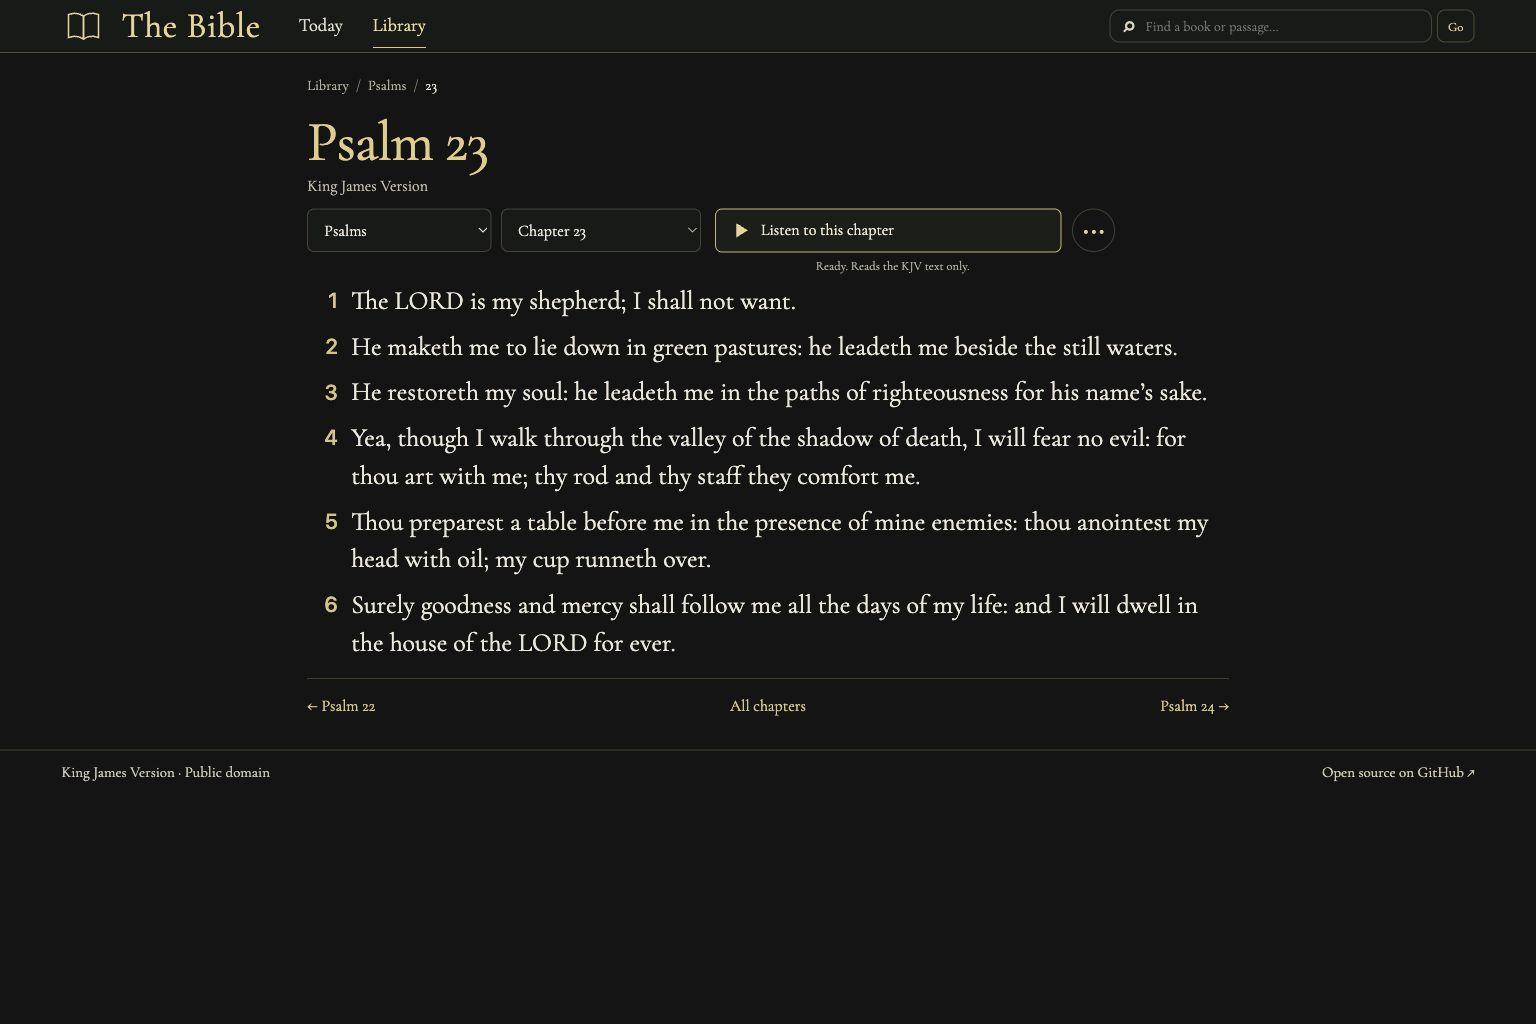
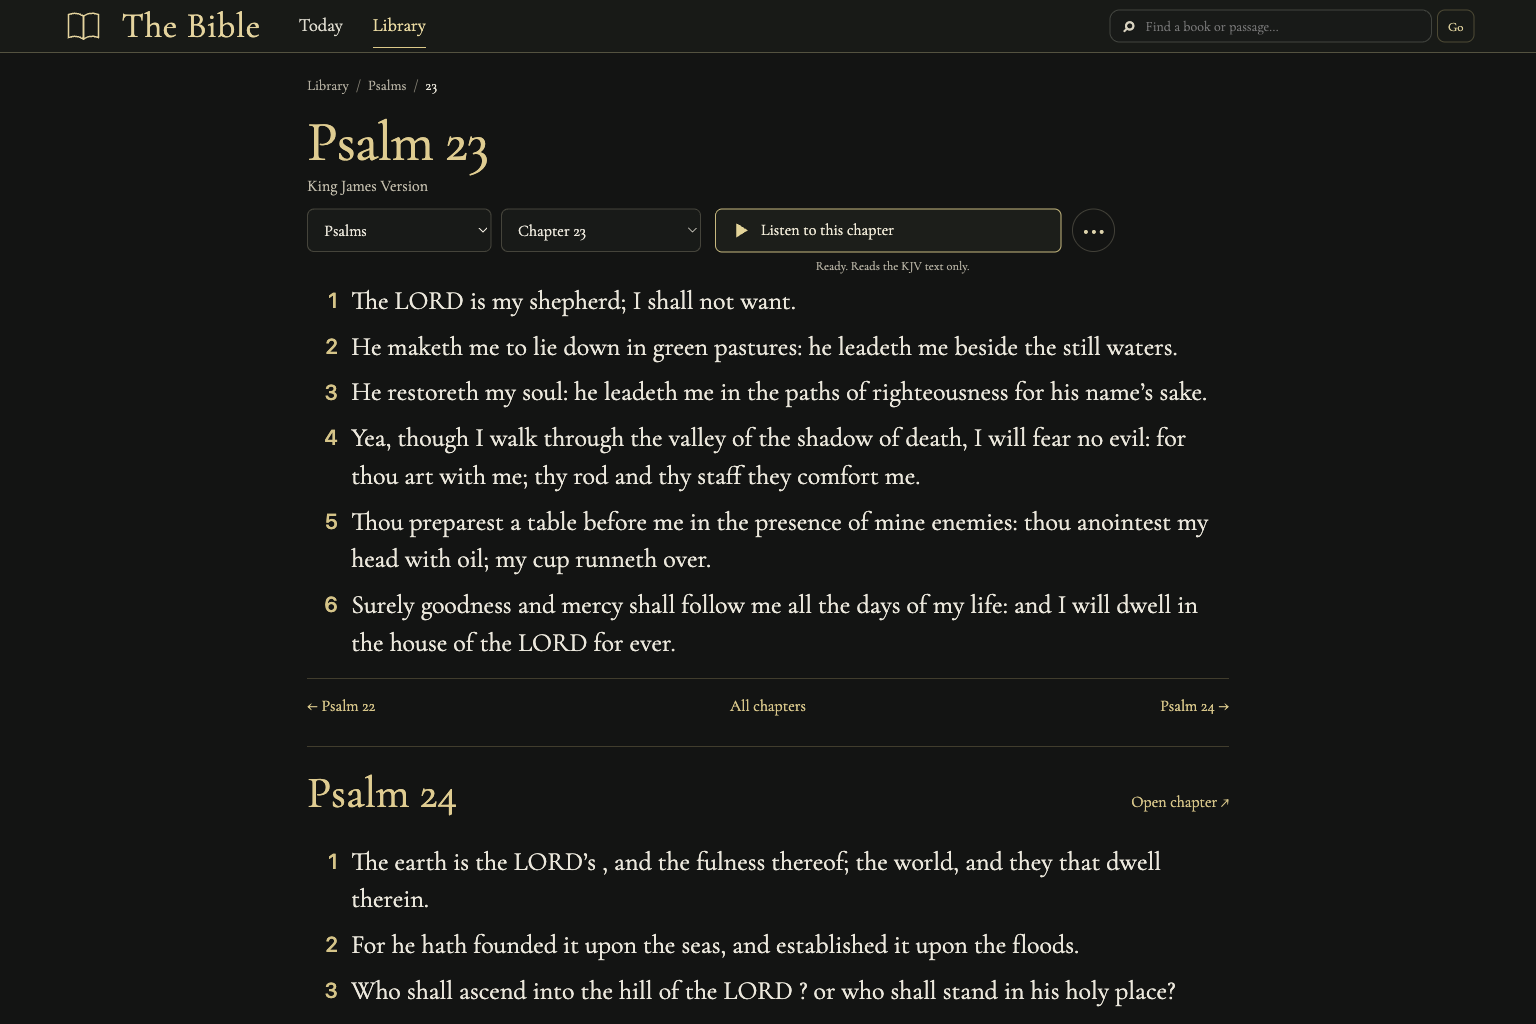
Continue short readings into following Scripture

diff --git a/web/reader.css b/web/reader.css
@@ -243,6 +243,14 @@ main.wrap:has(.reader-page) {
 .reader-pagination .reader-all-chapters { justify-self: center; }
 .reader-full-chapter { margin: 1.8rem 0 0; font: 1.05rem/1.5 'Bible Display', Georgia, serif; }
 
+.reader-continuation { margin-top: 1.8rem; }
+.reader-continuation-heading { display:flex;align-items:baseline;justify-content:space-between;flex-wrap:wrap;gap:.5rem 1rem;margin-bottom:1.1rem;padding-top:1.3rem;border-top:1px solid #b59a624d; }
+.reader-continuation-heading h2 { margin:0;color:#edca87;font:400 clamp(2rem,3vw,2.75rem)/1.15 'Bible Display',Georgia,serif; }
+.reader-continuation-heading a,.reader-continue-next { font:1rem/1.5 'Bible Display',Georgia,serif; }
+.reader-continuation-heading a { display:inline-flex;align-items:center;min-height:44px; }
+.reader-continue-next { margin:1.5rem 0 0;padding-top:1rem;border-top:1px solid #b59a624d; }
+.reader-continue-next a { display:inline-flex;align-items:center;min-height:44px; }
+
 @media (max-width: 700px) {
   main.wrap:has(.reader-page) { width: calc(100% - 36px); }
   .reader-page { padding-top: 1.15rem; }

diff --git a/web/experience.js b/web/experience.js
@@ -28,7 +28,10 @@ export function initExperience(root = document) {
     const status = controls.querySelector('[data-audio-status]');
     const audioLabel = play?.querySelector('[data-audio-label]');
     const playbackSettings = controls.querySelector('.book-playback-settings');
-    const nodes = [...root.querySelectorAll('.scripture .v')];
+    // Short readers also show following chapters. The contextual player reads
+    // only the selected chapter/range, never the continuation or explanations.
+    const primaryScripture = root.querySelector('[data-reader-primary-scripture]');
+    const nodes = [...(primaryScripture || root).querySelectorAll(primaryScripture ? '.v' : '.scripture .v')];
     let scripture;
     if (bookMode) {
       try {

diff --git a/src/reader.rs b/src/reader.rs
@@ -154,6 +154,75 @@ fn pagination(book: usize, chapter: usize, client: bool) -> String {
     html
 }
 
+fn following_chapter(book: usize, chapter: usize) -> Option<(usize, usize)> {
+    if chapter < bible().books[book].len() {
+        Some((book, chapter + 1))
+    } else if book + 1 < NAMES.len() {
+        Some((book + 1, 1))
+    } else {
+        None
+    }
+}
+
+/// Keep short readings flowing into real, sequential Scripture. Each added
+/// chapter has an explicit heading and its own route; audio stays with the
+/// selected passage. Bound the initial page instead of rendering an entire book.
+fn continuation(
+    book: usize,
+    chapter: usize,
+    next_verse: usize,
+    visible_verses: usize,
+    client: bool,
+) -> String {
+    const MIN_READING_VERSES: usize = 16;
+    let mut count = visible_verses;
+    let mut cursor = if next_verse <= bible().books[book][chapter - 1].len() {
+        Some((book, chapter, next_verse))
+    } else {
+        following_chapter(book, chapter).map(|(b, ch)| (b, ch, 1))
+    };
+    let mut html = String::new();
+    let mut added = 0;
+    while count < MIN_READING_VERSES && added < 3 {
+        let Some((b, ch, start)) = cursor else { break };
+        let text = &bible().books[b][ch - 1];
+        let title = chapter_title(b, ch);
+        let label = if start > 1 {
+            format!("{title}:{start}–{}", text.len())
+        } else {
+            title.clone()
+        };
+        let href = route_path(&format!("/book/{}/{ch}", slug(b)), client);
+        let heading_id = format!("continued-{b}-{ch}");
+        html.push_str(&format!(
+            "<section class=\"reader-continuation\" data-continuation-book=\"{b}\" data-continuation-chapter=\"{ch}\" aria-labelledby=\"{heading_id}\"><div class=\"reader-continuation-heading\"><h2 id=\"{heading_id}\">{}</h2><a href=\"{}\" aria-label=\"Open {}\">Open chapter ↗</a></div><div class=\"scripture reader-scripture\" role=\"group\" aria-label=\"{} Scripture\">",
+            esc(&label), esc(&href), esc(&title), esc(&label)
+        ));
+        for (index, verse) in text.iter().enumerate().skip(start - 1) {
+            let number = index + 1;
+            html.push_str(&format!(
+                "<p class=\"v\" id=\"continued-{b}-{ch}-v{number}\" data-reference=\"{} {ch}\" data-verse=\"{number}\"><sup>{number}</sup><span class=\"verse-text\">{}</span></p>",
+                esc(NAMES[b]), esc(verse)
+            ));
+        }
+        html.push_str("</div></section>");
+        count += text.len() - start + 1;
+        added += 1;
+        cursor = following_chapter(b, ch).map(|(b, ch)| (b, ch, 1));
+    }
+    if added > 0 {
+        if let Some((b, ch, _)) = cursor {
+            let href = route_path(&format!("/book/{}/{ch}", slug(b)), client);
+            html.push_str(&format!(
+                "<p class=\"reader-continue-next\"><a href=\"{}\">Continue with {} →</a></p>",
+                esc(&href),
+                esc(&chapter_title(b, ch))
+            ));
+        }
+    }
+    html
+}
+
 /// Render a complete chapter, keeping each verse addressable for highlighting,
 /// speech playback, and direct links such as `#v3`.
 pub(super) fn chapter_content(
@@ -165,7 +234,7 @@ pub(super) fn chapter_content(
     let mut html = reader_open(book, chapter, client);
     let reference = format!("{} {chapter}", NAMES[book]);
     html.push_str(&listen_controls(&reference, "chapter"));
-    html.push_str("</div><div class=\"scripture reader-scripture\" role=\"group\" aria-label=\"Scripture text\">");
+    html.push_str("</div><div class=\"scripture reader-scripture\" data-reader-primary-scripture role=\"group\" aria-label=\"Scripture text\">");
     for (index, text) in bible().books[book][chapter - 1].iter().enumerate() {
         let number = index + 1;
         let class = if highlighted.is_some_and(|(start, end)| number >= start && number <= end) {
@@ -181,6 +250,14 @@ pub(super) fn chapter_content(
     }
     html.push_str("</div>");
     html.push_str(&pagination(book, chapter, client));
+    let verse_count = bible().books[book][chapter - 1].len();
+    html.push_str(&continuation(
+        book,
+        chapter,
+        verse_count + 1,
+        verse_count,
+        client,
+    ));
     html.push_str("</section>");
     html
 }
@@ -204,7 +281,7 @@ pub(super) fn passage_content(reference: &Ref, url: &str, client: bool) -> Strin
     html.push_str(&book_selector(book, chapter, client));
     html.push_str("</div>");
     html.push_str(&listen_controls(&label, "passage"));
-    html.push_str("</div><div class=\"scripture reader-scripture\" role=\"group\" aria-label=\"Scripture text\">");
+    html.push_str("</div><div class=\"scripture reader-scripture\" data-reader-primary-scripture role=\"group\" aria-label=\"Scripture text\">");
     for (number, text) in verses(reference) {
         html.push_str(&format!(
             "<p class=\"v\" id=\"v{number}\" data-reference=\"{}\" data-verse=\"{number}\"><sup>{number}</sup><span class=\"verse-text\">{}</span></p>",
@@ -217,6 +294,85 @@ pub(super) fn passage_content(reference: &Ref, url: &str, client: bool) -> Strin
         "<p class=\"reader-full-chapter\"><a href=\"{}\">Read full chapter →</a></p>",
         esc(url)
     ));
+    let last_verse = reference
+        .v2
+        .or(reference.v1)
+        .unwrap_or(bible().books[book][chapter - 1].len());
+    let first_verse = reference.v1.unwrap_or(1);
+    html.push_str(&continuation(
+        book,
+        chapter,
+        last_verse + 1,
+        last_verse - first_verse + 1,
+        client,
+    ));
     html.push_str("</section>");
     html
+}
+
+#[cfg(test)]
+mod tests {
+    use super::*;
+    use std::collections::HashSet;
+
+    #[test]
+    fn short_psalm_continues_in_canonical_order_without_changing_primary_scripture() {
+        let html = chapter_content(18, 23, None, true);
+        let primary = html
+            .split("data-reader-primary-scripture")
+            .nth(1)
+            .unwrap()
+            .split("</div>")
+            .next()
+            .unwrap();
+        assert_eq!(primary.matches("class=\"v\"").count(), 6);
+        assert!(html.contains("<h2 id=\"continued-18-24\">Psalm 24</h2>"));
+        assert!(html.contains(&esc(&bible().books[18][23][0])));
+        assert!(html.contains("Continue with Psalm 25 →"));
+        assert_eq!(html.matches("data-read-aloud ").count(), 1);
+    }
+
+    #[test]
+    fn focused_range_continues_after_the_range_without_repeating_it() {
+        let reference = Ref {
+            book: 42,
+            ch: 3,
+            v1: Some(16),
+            v2: Some(16),
+        };
+        let html = passage_content(&reference, "#/book/John/3?v=16-16#v16", true);
+        assert!(html.contains("John 3:17–36</h2>"));
+        assert!(html.contains("id=\"continued-42-3-v17\""));
+        assert!(!html.contains("id=\"continued-42-3-v16\""));
+        assert_eq!(html.matches("For God so loved the world").count(), 1);
+    }
+
+    #[test]
+    fn continuation_crosses_book_boundaries_but_stops_at_the_end_of_scripture() {
+        let malachi = chapter_content(38, 4, None, true);
+        assert!(malachi.contains("<h2 id=\"continued-39-1\">Matthew 1</h2>"));
+        assert!(malachi.contains("href=\"#/book/Matthew/1\" aria-label=\"Open Matthew 1\""));
+        let final_chapter = chapter_content(65, 22, None, true);
+        assert!(!final_chapter.contains("class=\"reader-continuation\""));
+        assert!(!final_chapter.contains("rel=\"next\""));
+    }
+
+    #[test]
+    fn all_chapters_keep_unique_verse_anchors_and_bounded_continuations() {
+        for book in 0..NAMES.len() {
+            for chapter in 1..=bible().books[book].len() {
+                let html = chapter_content(book, chapter, None, true);
+                let mut ids = HashSet::new();
+                for tail in html.split(" id=\"").skip(1) {
+                    let id = tail.split('"').next().unwrap();
+                    assert!(
+                        ids.insert(id),
+                        "duplicate {id} in {} {chapter}",
+                        NAMES[book]
+                    );
+                }
+                assert!(html.matches("class=\"reader-continuation\"").count() <= 3);
+            }
+        }
+    }
 }

diff --git a/design-qa.md b/design-qa.md
@@ -63,3 +63,9 @@ final result: passed
 A fresh hosted John 3:16 passage at 1561 × 1200 placed the footer bottom at 487.53px, leaving 712.47px of viewport below it. Today also relied on a fixed viewport subtraction. Today and reader now use a column layout with a dynamic viewport minimum: short pages place the full-width footer at the bottom, and long chapters expand naturally. The Library and Tabernacle layouts are outside this scoped rule.
 
 Fresh local Rust/WASM browser checks passed for the focused passage, John 3 (36 verses), Today, and Psalm 117 (2 verses), including 320px and 390px mobile widths. Footer bounds reach the document/viewport bottom without overlapping the reading area or horizontal overflow. Hosted verification is recorded separately for the final published source; these checks do not establish physical-phone behavior.
+
+## Short readings continue into Scripture
+
+Moving the footer left unused space above it; the user's correction requires more passage content. The Rust reader now continues short chapters and focused verse ranges into sequential KJV text with explicit chapter headings, separate verse anchors, and working chapter links. Psalm 23's six verses are followed immediately by Psalm 24's ten verses, visible within the same 1536 × 1024 viewport. Longer chapters keep their existing layout. The contextual audio selection remains the originally selected chapter/range, excluding the added Scripture sections.
+
+Fresh local browser journeys cover Psalm 23 → Open Psalm 24, John 3:16 → following verses 17–36, Malachi 4 → Matthew 1 across the book boundary, and 320px mobile bounds. No duplicate verse IDs or horizontal overflow observed. The reader screenshot is an actual local Rust/WASM capture. Supporting Rust tests check all 1,189 chapters for unique anchors and bounded continuation, focused range boundaries, canonical book transitions, and the end of Revelation. Hosted acceptance is recorded separately on the final source.

diff --git a/README.md b/README.md
@@ -78,6 +78,8 @@ A static host cannot run Axum or provide these as HTTP endpoints. The same JSON 
 ![The Bible chapter reader](docs/site-reader.png)
 
 - A quiet chapter reader for all 66 books, with book/chapter selectors, contextual speech controls, and previous/next chapter links across book boundaries.
+- Short readings continue directly into following Scripture, with clear chapter headings and **Open chapter** links. Verse lookups show the requested range first, then continue after its final verse. The initial page includes whole following chapters until at least 16 verses are rendered (at most three added sections, or the end of Scripture); a **Continue with…** link opens the next unread chapter. The end of Revelation stops naturally.
+- **Listen to this chapter/passage** reads only the selected chapter or range. Scripture shown beneath it for continued reading is kept outside that audio selection.
 - Reference lookup such as `John 3:16`, `John 3`, `1 Cor 13:4-7`, and `ps 23`; names are case-insensitive and common abbreviations are supported.
 - Typo-tolerant book suggestions: `neimai` suggests Nehemiah, and `jhon` suggests John. Chapter and verse requests stay attached to valid suggestions. Corrections are explicit links; keyword search still returns exact text matches.
 - Full-text search where every query word must match, with up to 200 displayed results and escaped highlighting.
